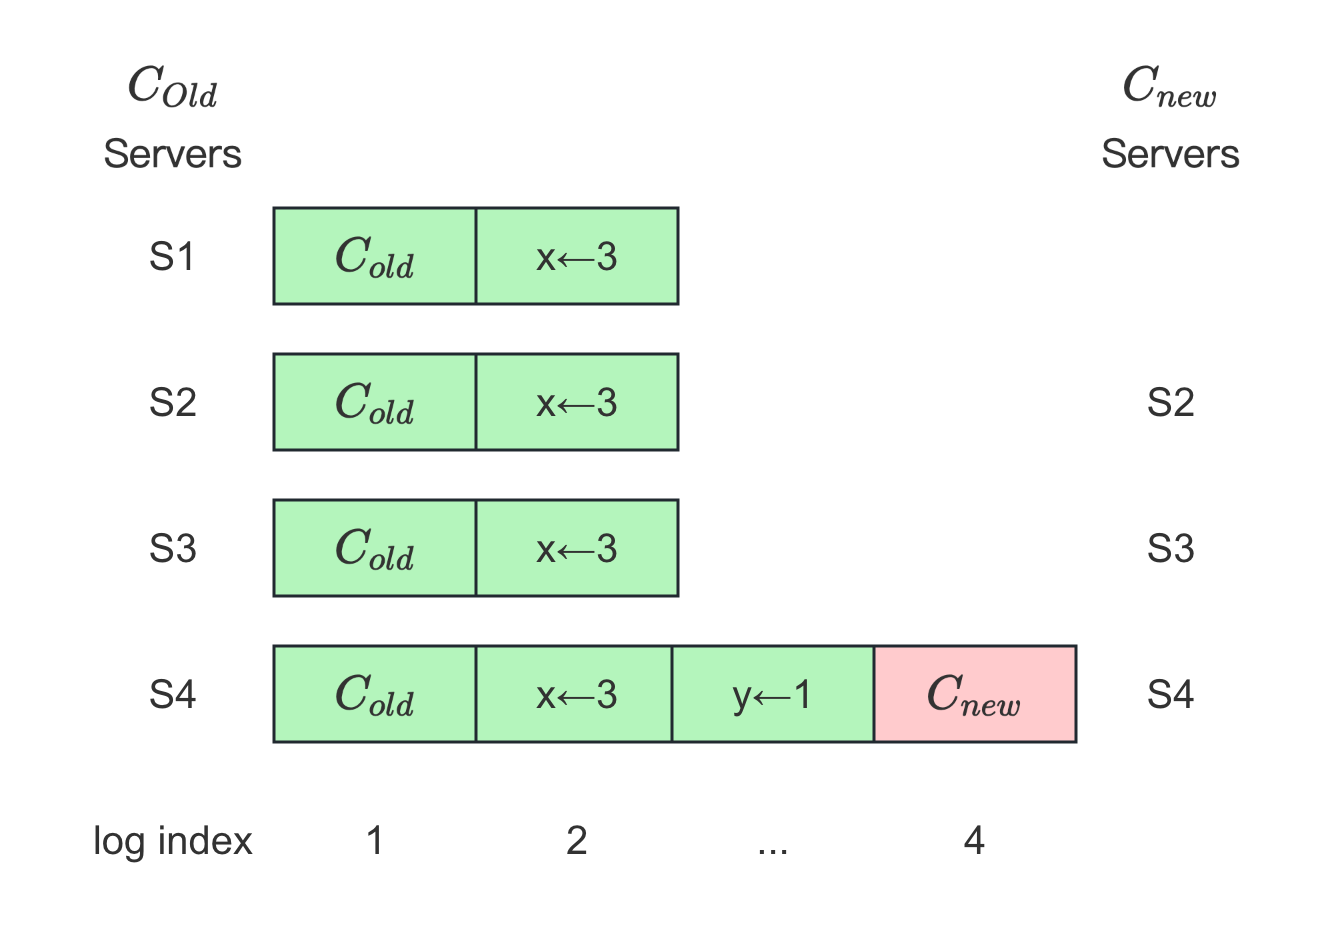
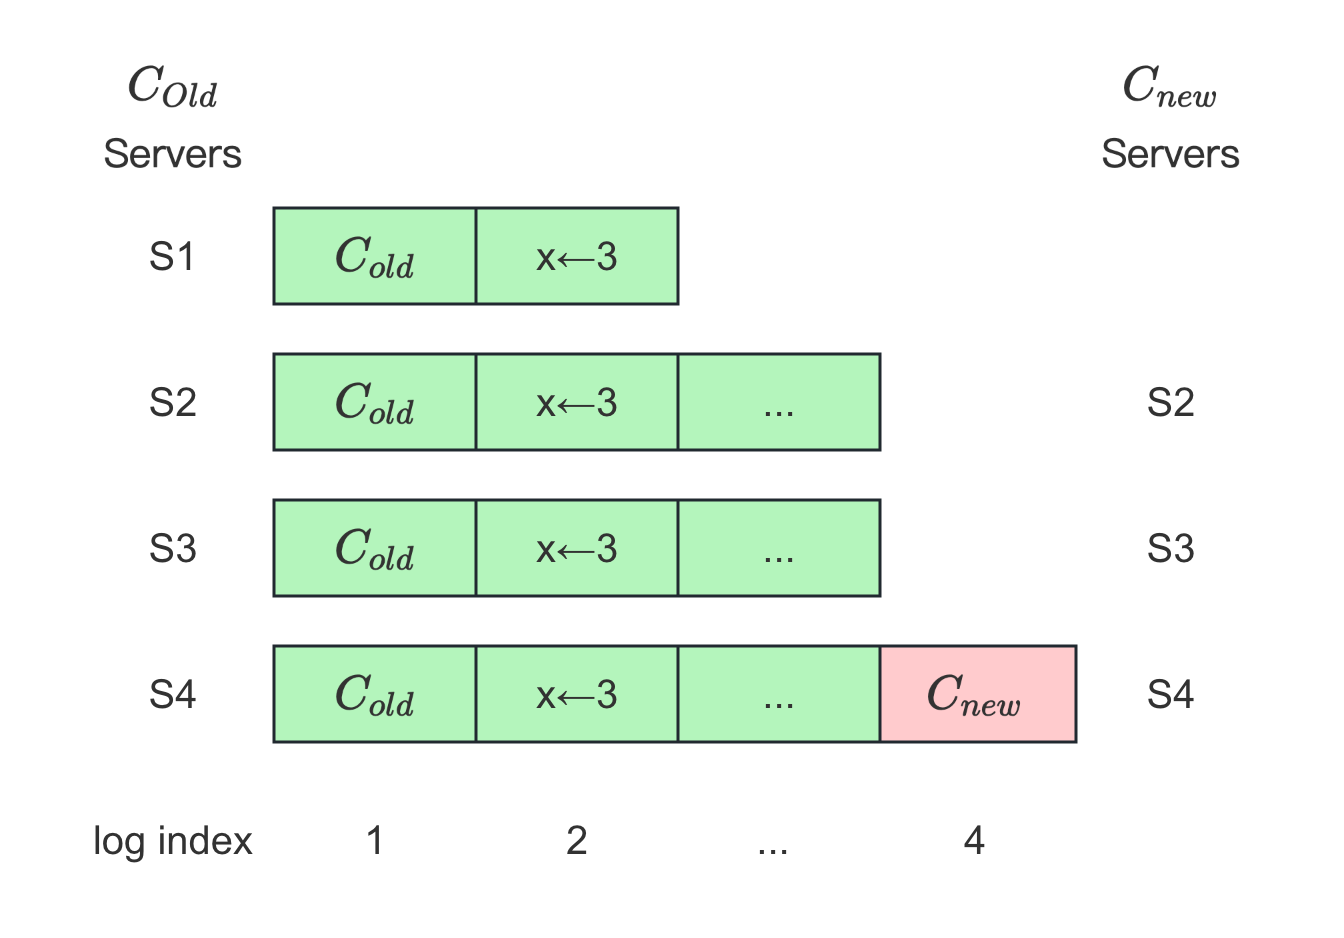
221

diff --git a/ch03/3.1/election.md b/ch03/3.1/election.md
@@ -220,18 +220,24 @@ void NodeImpl::handle_election_timeout() {
 ```cpp
 void NodeImpl::pre_vote(std::unique_lock<raft_mutex_t>* lck, bool triggered) {
     ...
-    // (1) 获取节点的 lastLog
+    // (1) 如果当前节点已经被集群移除了，则不再参与选举
+    if (!_conf.contains(_server_id)) {
+        ...
+        return;
+    }
+    ...
+    // (2) 获取节点的 lastLog
     const LogId last_log_id = _log_manager->last_log_id(true);
 
     _pre_vote_ctx.init(this, triggered);
     std::set<PeerId> peers;
     _conf.list_peers(&peers);
 
-    // (2) 向组内所有节点发送 `PreVote` 请求
+    // (3) 向组内所有节点发送 `PreVote` 请求
     for (std::set<PeerId>::const_iterator
             iter = peers.begin(); iter != peers.end(); ++iter) {
         ...
-        // (3) 设置回调函数
+        // (4) 设置回调函数
         OnPreVoteRPCDone* done = new OnPreVoteRPCDone(
                 *iter, _current_term, _pre_vote_ctx.version(), this);
         ...
@@ -242,7 +248,7 @@ void NodeImpl::pre_vote(std::unique_lock<raft_mutex_t>* lck, bool triggered) {
         RaftService_Stub stub(&channel);
         stub.pre_vote(&done->cntl, &done->request, &done->response, done);
     }
-    // (4) 给自己投一票
+    // (5) 给自己投一票
     grant_self(&_pre_vote_ctx, lck);
 }
 ```
@@ -358,30 +364,35 @@ TODO(Wine93):
 void NodeImpl::elect_self(std::unique_lock<raft_mutex_t>* lck,
                           bool old_leader_stepped_down) {
     ...
-
-    _state = STATE_CANDIDATE;  // (1) 将自身角色转变为 Candidate
-    _current_term++;           // (2) 将自身的 term+1
-    _voted_id = _server_id;    // (3) 记录 votedFor 投给自己
+    // (1) 如果当前节点已经被集群移除了，则不再参与选举
+    if (!_conf.contains(_server_id)) {
+        ...
+        return;
+    }
+    ...
+    _state = STATE_CANDIDATE;  // (2) 将自身角色转变为 Candidate
+    _current_term++;           // (3) 将自身的 term+1
+    _voted_id = _server_id;    // (4) 记录 votedFor 投给自己
 
     ...
-    // (4) 启动投票超时器：如果在 vote_timeout_ms 未得到足够多的选票，则变为 Follower 重新进行 PreVote
+    // (5) 启动投票超时器：如果在 vote_timeout_ms 未得到足够多的选票，则变为 Follower 重新进行 PreVote
     _vote_timer.start();
 
-    // (5) 获取 LastLog 的 index 和 term（LogId 由 index 和 term 组成）
+    // (6) 获取 LastLog 的 index 和 term（LogId 由 index 和 term 组成）
     const LogId last_log_id = _log_manager->last_log_id(true);
     ...
     _vote_ctx.set_last_log_id(last_log_id);
 
-    // (6) 向所有节点广播 `RequestVote` 请求
+    // (7) 向所有节点广播 `RequestVote` 请求
     std::set<PeerId> peers;
     _conf.list_peers(&peers);
     request_peers_to_vote(peers, _vote_ctx.disrupted_leader());
 
-    // (7) 持久化 currentTerm，votedFor
+    // (8) 持久化 currentTerm，votedFor
     status = _meta_storage->
                     set_term_and_votedfor(_current_term, _server_id, _v_group_id);
 
-    // (8) 给自己投一票
+    // (9) 给自己投一票
     grant_self(&_vote_ctx, lck);
 }
 ```

diff --git a/ch06/6.1/configuration_change.md b/ch06/6.1/configuration_change.md
@@ -77,7 +77,7 @@ TODO(Wine93,P0)
 * 在 `S1,S2,S3,S4` 组成的集群中执行配置变更，调用 `remove_peer` 将节点 `S1` 移除集群
 *
 
-在[<3.2 选举优化>](/ch03/3.2/optimization.md)中提到过，这种场景 `PreVote` 无法阻止，但是可以利用 `Check Quorum` 解决。但是其实在目前 braft 的实现中，这种场景是不会出现的，因为 Leader 是将新配置（即 `C{new}`）复制到新集群的大多数集群后，才开始移除不在新集群中的 `Replicator`（停止广播心跳），而不是在将新配置未达到 `Quorum` 前停止心跳。所以对于节点 `S1` 来说，
+在[<3.2 选举优化>](/ch03/3.2/optimization.md)中提到过，这种场景 `PreVote` 无法阻止，但是可以利用 `Check Quorum` 解决。但是其实在目前 braft 的实现中，这种场景是不会出现的，因为 Leader 是将新配置（即 `C{new}`）复制到新集群的大多数集群后，才开始移除不在新集群中的 `Replicator`（）停止广播心跳，将新配置 ``。而不是在节点将新配置达到 ``， 来说，，
 
 相关接口
 ---
